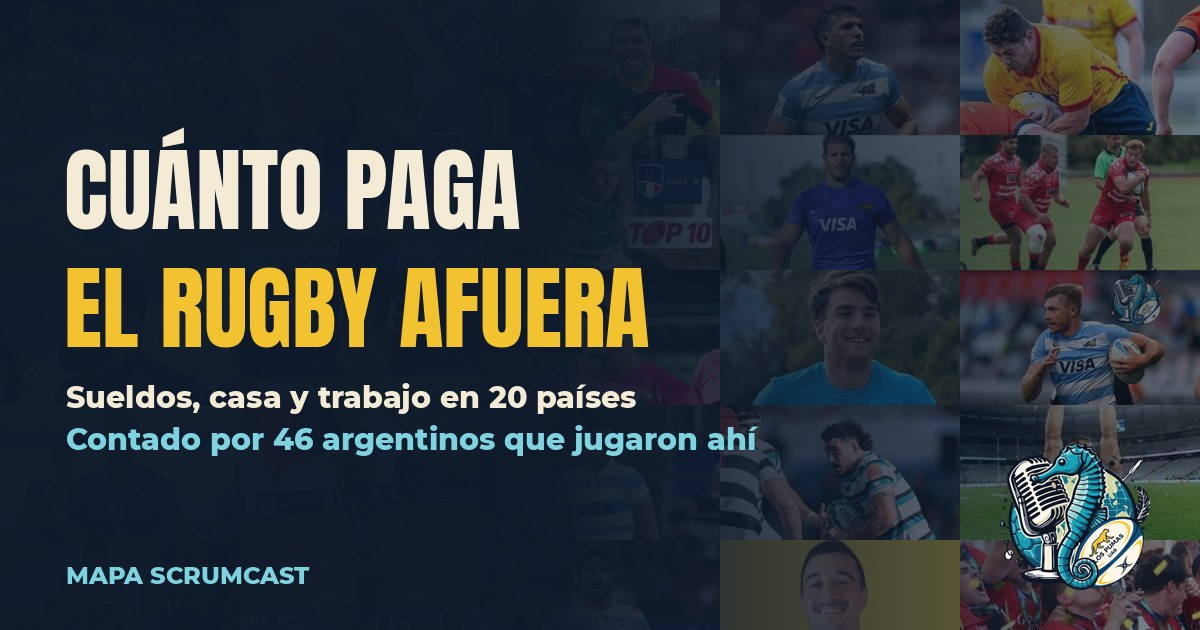
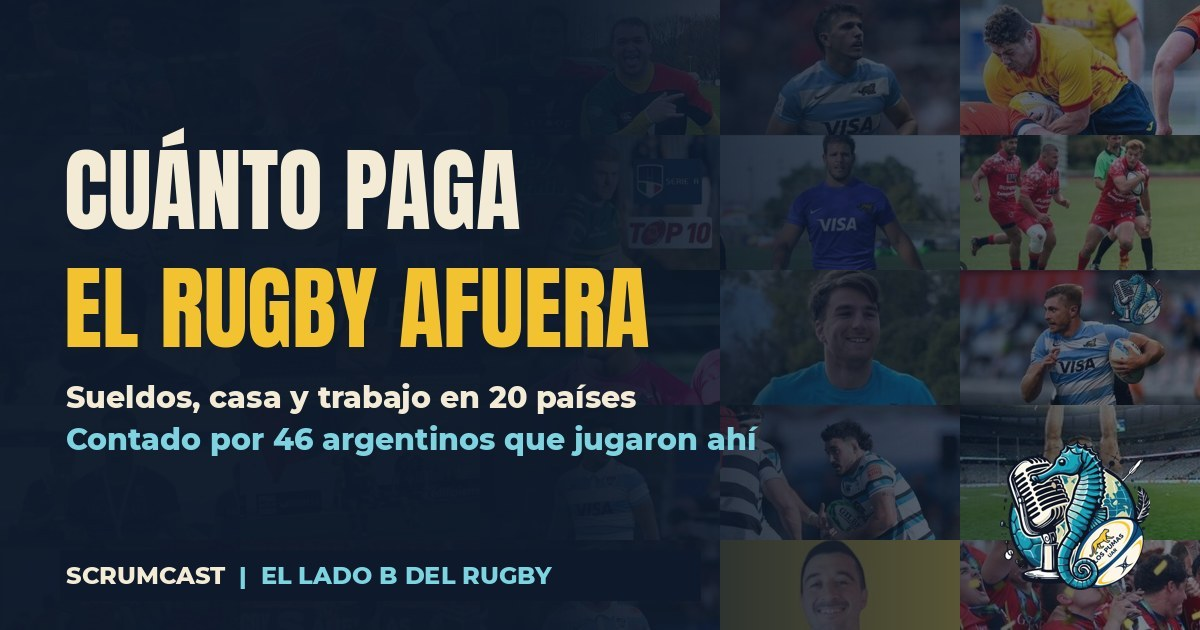
Nombre: ScrumCast · El lado B del rugby
Claude-Session: https://claude.ai/code/session_01KXXyBiTwK5G57GuSQtMAYV

Changed region(s): [[0.0308, 0.8746, 0.4625, 0.9349]]

diff --git a/index.html b/index.html
@@ -1,4 +1,4 @@
-<!doctype html><html lang="es"><head><meta charset="utf-8"><meta name="viewport" content="width=device-width,initial-scale=1,viewport-fit=cover"><title>Cuánto paga el rugby afuera: sueldos por liga | ScrumCast</title><meta name="description" content="Sueldos del rugby semiprofesional en 20 países: cuánto paga cada liga por mes y si te dan casa y trabajo. Contado por 46 argentinos que jugaron ahí."><link rel="canonical" href="https://mapa-scrumcast.vercel.app/"><meta name="theme-color" content="#0E1A2B"><meta property="og:type" content="website"><meta property="og:locale" content="es_AR"><meta property="og:site_name" content="ScrumCast"><meta property="og:url" content="https://mapa-scrumcast.vercel.app/"><meta property="og:title" content="Cuánto paga el rugby afuera"><meta property="og:description" content="Sueldos, casa y trabajo en 20 países, contado por 46 argentinos que jugaron ahí. Lo que ningún club te cuenta antes de firmar."><meta property="og:image" content="https://mapa-scrumcast.vercel.app/img/og.jpg"><meta property="og:image:width" content="1200"><meta property="og:image:height" content="630"><meta property="og:image:alt" content="Cuánto paga el rugby afuera: sueldos, casa y trabajo en 20 países"><meta name="twitter:card" content="summary_large_image"><meta name="twitter:image" content="https://mapa-scrumcast.vercel.app/img/og.jpg"><link rel="icon" href="img/logo.png"><link rel="apple-touch-icon" href="img/logo_grande.png"><script type="application/ld+json">[{"@context": "https://schema.org", "@type": "WebSite", "name": "Mapa ScrumCast", "url": "https://mapa-scrumcast.vercel.app/", "inLanguage": "es-AR", "description": "Cuánto paga cada liga de rugby afuera, si te dan casa y trabajo, contado por 46 argentinos que jugaron ahí.", "publisher": {"@type": "Organization", "name": "ScrumCast", "url": "https://mapa-scrumcast.vercel.app/", "logo": "https://mapa-scrumcast.vercel.app/img/logo_grande.png", "sameAs": ["https://www.instagram.com/scrumcast_", "https://www.youtube.com/@ScrumCastTuPodcastDeRugby", "https://open.spotify.com/show/2RqDUNEPf3DBLBzF7ElSzZ"], "founder": {"@type": "Person", "name": "Bruno Dell Aguila"}}}, {"@context": "https://schema.org", "@type": "FAQPage", "mainEntity": [{"@type": "Question", "name": "¿Cuánto se cobra jugando al rugby en Top 14 (Francia)?", "acceptedAnswer": {"@type": "Answer", "text": "5.000 a 50.000+ € por mes, según el club y el jugador. Casa: sin dato. Depende del contrato. El promedio público ronda los 21.000 € (Midi Olympique), con las estrellas adentro: la mayoría cobra bastante menos. Hay chicos del Top 14 que ganan menos que algunos de segunda. Según las charlas de ScrumCast con jugadores argentinos."}}, {"@type": "Question", "name": "¿Cuánto se cobra jugando al rugby en Premiership (Reino Unido)?", "acceptedAnswer": {"@type": "Answer", "text": "4.000 a 70.000 £ por mes (≈ 4.700 a 82.000 €). Casa: sin dato. Depende del contrato. En un mismo equipo uno puede ganar 5 mil y otro 50 mil. Pasado a euros es aproximado. Según las charlas de ScrumCast con jugadores argentinos."}}, {"@type": "Question", "name": "¿Cuánto se cobra jugando al rugby en MLR (profesional) (Estados Unidos)?", "acceptedAnswer": {"@type": "Answer", "text": "2.100 a 8.300 US$ por mes, durante los 6 meses de temporada (12.500 a 50.000 US$ en total). Casa: sí. Housing y vuelos del club, durante la temporada. El mínimo estándar ronda los 12.500 US$ por la temporada; hay quienes ganan 15 o 20 mil, y el máximo de la liga estaría en 40 o 50 mil. Los chicos de academia cobran por hora. Son 6 meses: cuando termina, el club deja de pagar el departamento y la mayoría vuelve a su país. Pasado a euros, aproximado. Según las charlas de ScrumCast con jugadores argentinos."}}, {"@type": "Question", "name": "¿Cuánto se cobra jugando al rugby en Pro D2 (Francia)?", "acceptedAnswer": {"@type": "Answer", "text": "1.300 a 20.000 € por mes, del mínimo a los mejores contratos. Casa: sin dato. Depende del contrato. El mínimo ronda los 1.300–1.500 € y un extranjero no formado en Francia arranca en 2.000 y pico. El promedio público es de unos 4.000 € (Midi Olympique) y los mejores contratos llegan hasta unos 20.000 € por mes. Según las charlas de ScrumCast con jugadores argentinos."}}, {"@type": "Question", "name": "¿Cuánto se cobra jugando al rugby en Fédérale 1 (Francia)?", "acceptedAnswer": {"@type": "Answer", "text": "2.000–4.000 € por mes, con casa y pasaje. Casa: a veces. Departamento y auto en los mejores contratos. Los peores contratos: 700 € sin casa. Según las charlas de ScrumCast con jugadores argentinos."}}, {"@type": "Question", "name": "¿Cuánto se cobra jugando al rugby en Espoirs (centro de formación) (Francia)?", "acceptedAnswer": {"@type": "Answer", "text": "1.000–2.000 € por mes, con todo pago. Casa: sí. Comida, residencia y facultad pagas. El primer año no tenía sueldo: el club le cubría todo. Según las charlas de ScrumCast con jugadores argentinos."}}, {"@type": "Question", "name": "¿Cuánto se cobra jugando al rugby en SuperLiga (Rumania)?", "acceptedAnswer": {"@type": "Answer", "text": "1.000–4.500 € por mes, del club. Casa: sí. Hotel del club, con comida. Según las charlas de ScrumCast con jugadores argentinos."}}, {"@type": "Question", "name": "¿Cuánto se cobra jugando al rugby en Serie A Elite (ex Top 10) (Italia)?", "acceptedAnswer": {"@type": "Answer", "text": "Vivís del rugby sueldo fijo más casa, auto y vuelos; en las charlas no hay una cifra. Casa: sí. Casa, auto y vuelos. Es la primera división (no las franquicias del URC). Vaccaro y Gonzalo García arrancaron ahí con sueldo, departamento y auto: el único gasto era la comida. Un wing cobra menos que un apertura o un forward. Según las charlas de ScrumCast con jugadores argentinos."}}, {"@type": "Question", "name": "¿Cuánto se cobra jugando al rugby en Serie A (A1 y A2) (Italia)?", "acceptedAnswer": {"@type": "Answer", "text": "800 a 1.100 € por mes, según el puesto. Casa: sí. Casa del club. Es la segunda división, partida en A1 y A2 (tres grupos por zonas). Con eso se vive bien y hasta se ahorra. En pandemia, Martín Altamirano cobraba 700–800 € en Serie A. Según las charlas de ScrumCast con jugadores argentinos."}}, {"@type": "Question", "name": "¿Cuánto se cobra jugando al rugby en Serie B (Italia)?", "acceptedAnswer": {"@type": "Answer", "text": "1.200 a 1.500 € por mes, en las mejores ofertas a extranjeros. Casa: sí. Casa, auto y pasajes en los buenos contratos. Ojo: son ofertas puntuales para traer a un extranjero, no lo que cobra la mayoría. Altamirano tuvo 1.200 € más casa, auto y pasajes (\"para ser un Serie B tenía un buen contrato\"). A Elias Haase un club de la isla le ofreció 1.300 € y estiraba hasta 1.500. Según las charlas de ScrumCast con jugadores argentinos."}}, {"@type": "Question", "name": "¿Cuánto se cobra jugando al rugby en División de Honor (España)?", "acceptedAnswer": {"@type": "Answer", "text": "800 a 2.000 € por mes, del club. Casa: a veces. Depende del club. Lo común es 800–1.000 €. Muy pocos llegan a 2.000 €, pero los hay: son los que más cobran en División de Honor. Fijate siempre si incluye casa. Según las charlas de ScrumCast con jugadores argentinos."}}, {"@type": "Question", "name": "¿Cuánto se cobra jugando al rugby en División de Honor B y tercera división (España)?", "acceptedAnswer": {"@type": "Answer", "text": "500 a 1.200 € por mes, con la comida. Con un trabajo: 800–1.400 € (lo que suma un trabajo). Casa: a veces. Algunos clubes dan casa y comida. En segunda y tercera división te dan sueldo y comida: de 500 a 1.000 €, y hasta 1.200 en segunda. Con un trabajo se suman 800 a 1.400 €. Según las charlas de ScrumCast con jugadores argentinos."}}, {"@type": "Question", "name": "¿Cuánto se cobra jugando al rugby en Liga polaca (Polonia)?", "acceptedAnswer": {"@type": "Answer", "text": "800–1.000 € por mes, en un país barato. Casa: sí. Habitación en el club. Según las charlas de ScrumCast con jugadores argentinos."}}, {"@type": "Question", "name": "¿Cuánto se cobra jugando al rugby en Liga alemana (Alemania)?", "acceptedAnswer": {"@type": "Answer", "text": "500–1.700 € por mes, del club. Con un trabajo: ~1.600 € (un trabajo normal). Casa: sí. Sí, lo normal. El club más fuerte llegó a pagar 2.000 € más casa. Los contratos de jugador y entrenador rondan hoy los 1.600 € más la casa. Según las charlas de ScrumCast con jugadores argentinos."}}, {"@type": "Question", "name": "¿Cuánto se cobra jugando al rugby en Semiprofesional (Irlanda)?", "acceptedAnswer": {"@type": "Answer", "text": "700–800 € por mes, del club. Con un trabajo: Sin cifra (el club te da un trabajo). Casa: sí. Casa y pasajes del club. Según las charlas de ScrumCast con jugadores argentinos."}}, {"@type": "Question", "name": "¿Cuánto se cobra jugando al rugby en Primera división (República Checa)?", "acceptedAnswer": {"@type": "Answer", "text": "Bajo como la 2ª división española. Con un trabajo: Extra (trabajo que consigue el club). Casa: sí. Sí, con comida. Según las charlas de ScrumCast con jugadores argentinos."}}, {"@type": "Question", "name": "¿Cuánto se cobra jugando al rugby en Championship (Bélgica)?", "acceptedAnswer": {"@type": "Answer", "text": "Bajo lo del club es un extra. Con un trabajo: 1.500–2.000 € (trabajando 8 horas). Casa: sí. Sí, gratis. Según las charlas de ScrumCast con jugadores argentinos."}}, {"@type": "Question", "name": "¿Cuánto se cobra jugando al rugby en Segunda liga (Países Bajos)?", "acceptedAnswer": {"@type": "Answer", "text": "3 meses solo mientras te buscan trabajo. Con un trabajo: 1.400–1.500 € (media jornada, dos días por semana). Casa: a veces. Alquiler barato. Según las charlas de ScrumCast con jugadores argentinos."}}, {"@type": "Question", "name": "¿Cuánto se cobra jugando al rugby en Liga sueca (de verano) (Suecia)?", "acceptedAnswer": {"@type": "Answer", "text": "Casa y comida pasajes, casa y una comida por día; sin sueldo. Con un trabajo: ~2.000 € (trabajando de lo que consigas (no hay salario mínimo)). Casa: sí. Casa y una comida por día. Es una liga de verano: se entrena desde marzo y se juega hasta fines del verano europeo, cuando en el resto de Europa no hay rugby. Sirve para seguir jugando en vez de quedarte solo trabajando en el verano. Es chica: este año la primera división terminó con tres equipos. Según las charlas de ScrumCast con jugadores argentinos."}}, {"@type": "Question", "name": "¿Cuánto se cobra jugando al rugby en Primera división (Croacia)?", "acceptedAnswer": {"@type": "Answer", "text": "Sin sueldo semiprofesional: alojamiento y un trabajo en el club. Con un trabajo: Trabajo en el club (entrenando a los chicos del club). Casa: sí. Alojamiento del club. Rugby emergente y a pulmón: cinco clubes en primera, ninguno con intermedia. Los jugadores también dan una mano en el club fuera de la cancha. Según las charlas de ScrumCast con jugadores argentinos."}}, {"@type": "Question", "name": "¿Cuánto se cobra jugando al rugby en Universitario (Estados Unidos)?", "acceptedAnswer": {"@type": "Answer", "text": "Sin sueldo beca parcial sobre las clases. Casa: a veces. Universidad o depto. compartido. Según las charlas de ScrumCast con jugadores argentinos."}}]}]</script></head><body>
+<!doctype html><html lang="es"><head><meta charset="utf-8"><meta name="viewport" content="width=device-width,initial-scale=1,viewport-fit=cover"><title>ScrumCast, el lado B del rugby: cuánto paga cada liga afuera</title><meta name="description" content="Sueldos del rugby semiprofesional en 20 países: cuánto paga cada liga por mes y si te dan casa y trabajo. Contado por 46 argentinos que jugaron ahí."><link rel="canonical" href="https://mapa-scrumcast.vercel.app/"><meta name="theme-color" content="#0E1A2B"><meta property="og:type" content="website"><meta property="og:locale" content="es_AR"><meta property="og:site_name" content="ScrumCast"><meta property="og:url" content="https://mapa-scrumcast.vercel.app/"><meta property="og:title" content="ScrumCast · El lado B del rugby"><meta property="og:description" content="Sueldos, casa y trabajo en 20 países, contado por 46 argentinos que jugaron ahí. Lo que ningún club te cuenta antes de firmar."><meta property="og:image" content="https://mapa-scrumcast.vercel.app/img/og.jpg"><meta property="og:image:width" content="1200"><meta property="og:image:height" content="630"><meta property="og:image:alt" content="Cuánto paga el rugby afuera: sueldos, casa y trabajo en 20 países"><meta name="twitter:card" content="summary_large_image"><meta name="twitter:image" content="https://mapa-scrumcast.vercel.app/img/og.jpg"><link rel="icon" href="img/logo.png"><link rel="apple-touch-icon" href="img/logo_grande.png"><script type="application/ld+json">[{"@context": "https://schema.org", "@type": "WebSite", "name": "ScrumCast · El lado B del rugby", "alternateName": "Mapa ScrumCast", "url": "https://mapa-scrumcast.vercel.app/", "inLanguage": "es-AR", "description": "Cuánto paga cada liga de rugby afuera, si te dan casa y trabajo, contado por 46 argentinos que jugaron ahí.", "publisher": {"@type": "Organization", "name": "ScrumCast", "url": "https://mapa-scrumcast.vercel.app/", "logo": "https://mapa-scrumcast.vercel.app/img/logo_grande.png", "sameAs": ["https://www.instagram.com/scrumcast_", "https://www.youtube.com/@ScrumCastTuPodcastDeRugby", "https://open.spotify.com/show/2RqDUNEPf3DBLBzF7ElSzZ"], "founder": {"@type": "Person", "name": "Bruno Dell Aguila"}}}, {"@context": "https://schema.org", "@type": "FAQPage", "mainEntity": [{"@type": "Question", "name": "¿Cuánto se cobra jugando al rugby en Top 14 (Francia)?", "acceptedAnswer": {"@type": "Answer", "text": "5.000 a 50.000+ € por mes, según el club y el jugador. Casa: sin dato. Depende del contrato. El promedio público ronda los 21.000 € (Midi Olympique), con las estrellas adentro: la mayoría cobra bastante menos. Hay chicos del Top 14 que ganan menos que algunos de segunda. Según las charlas de ScrumCast con jugadores argentinos."}}, {"@type": "Question", "name": "¿Cuánto se cobra jugando al rugby en Premiership (Reino Unido)?", "acceptedAnswer": {"@type": "Answer", "text": "4.000 a 70.000 £ por mes (≈ 4.700 a 82.000 €). Casa: sin dato. Depende del contrato. En un mismo equipo uno puede ganar 5 mil y otro 50 mil. Pasado a euros es aproximado. Según las charlas de ScrumCast con jugadores argentinos."}}, {"@type": "Question", "name": "¿Cuánto se cobra jugando al rugby en MLR (profesional) (Estados Unidos)?", "acceptedAnswer": {"@type": "Answer", "text": "2.100 a 8.300 US$ por mes, durante los 6 meses de temporada (12.500 a 50.000 US$ en total). Casa: sí. Housing y vuelos del club, durante la temporada. El mínimo estándar ronda los 12.500 US$ por la temporada; hay quienes ganan 15 o 20 mil, y el máximo de la liga estaría en 40 o 50 mil. Los chicos de academia cobran por hora. Son 6 meses: cuando termina, el club deja de pagar el departamento y la mayoría vuelve a su país. Pasado a euros, aproximado. Según las charlas de ScrumCast con jugadores argentinos."}}, {"@type": "Question", "name": "¿Cuánto se cobra jugando al rugby en Pro D2 (Francia)?", "acceptedAnswer": {"@type": "Answer", "text": "1.300 a 20.000 € por mes, del mínimo a los mejores contratos. Casa: sin dato. Depende del contrato. El mínimo ronda los 1.300–1.500 € y un extranjero no formado en Francia arranca en 2.000 y pico. El promedio público es de unos 4.000 € (Midi Olympique) y los mejores contratos llegan hasta unos 20.000 € por mes. Según las charlas de ScrumCast con jugadores argentinos."}}, {"@type": "Question", "name": "¿Cuánto se cobra jugando al rugby en Fédérale 1 (Francia)?", "acceptedAnswer": {"@type": "Answer", "text": "2.000–4.000 € por mes, con casa y pasaje. Casa: a veces. Departamento y auto en los mejores contratos. Los peores contratos: 700 € sin casa. Según las charlas de ScrumCast con jugadores argentinos."}}, {"@type": "Question", "name": "¿Cuánto se cobra jugando al rugby en Espoirs (centro de formación) (Francia)?", "acceptedAnswer": {"@type": "Answer", "text": "1.000–2.000 € por mes, con todo pago. Casa: sí. Comida, residencia y facultad pagas. El primer año no tenía sueldo: el club le cubría todo. Según las charlas de ScrumCast con jugadores argentinos."}}, {"@type": "Question", "name": "¿Cuánto se cobra jugando al rugby en SuperLiga (Rumania)?", "acceptedAnswer": {"@type": "Answer", "text": "1.000–4.500 € por mes, del club. Casa: sí. Hotel del club, con comida. Según las charlas de ScrumCast con jugadores argentinos."}}, {"@type": "Question", "name": "¿Cuánto se cobra jugando al rugby en Serie A Elite (ex Top 10) (Italia)?", "acceptedAnswer": {"@type": "Answer", "text": "Vivís del rugby sueldo fijo más casa, auto y vuelos; en las charlas no hay una cifra. Casa: sí. Casa, auto y vuelos. Es la primera división (no las franquicias del URC). Vaccaro y Gonzalo García arrancaron ahí con sueldo, departamento y auto: el único gasto era la comida. Un wing cobra menos que un apertura o un forward. Según las charlas de ScrumCast con jugadores argentinos."}}, {"@type": "Question", "name": "¿Cuánto se cobra jugando al rugby en Serie A (A1 y A2) (Italia)?", "acceptedAnswer": {"@type": "Answer", "text": "800 a 1.100 € por mes, según el puesto. Casa: sí. Casa del club. Es la segunda división, partida en A1 y A2 (tres grupos por zonas). Con eso se vive bien y hasta se ahorra. En pandemia, Martín Altamirano cobraba 700–800 € en Serie A. Según las charlas de ScrumCast con jugadores argentinos."}}, {"@type": "Question", "name": "¿Cuánto se cobra jugando al rugby en Serie B (Italia)?", "acceptedAnswer": {"@type": "Answer", "text": "1.200 a 1.500 € por mes, en las mejores ofertas a extranjeros. Casa: sí. Casa, auto y pasajes en los buenos contratos. Ojo: son ofertas puntuales para traer a un extranjero, no lo que cobra la mayoría. Altamirano tuvo 1.200 € más casa, auto y pasajes (\"para ser un Serie B tenía un buen contrato\"). A Elias Haase un club de la isla le ofreció 1.300 € y estiraba hasta 1.500. Según las charlas de ScrumCast con jugadores argentinos."}}, {"@type": "Question", "name": "¿Cuánto se cobra jugando al rugby en División de Honor (España)?", "acceptedAnswer": {"@type": "Answer", "text": "800 a 2.000 € por mes, del club. Casa: a veces. Depende del club. Lo común es 800–1.000 €. Muy pocos llegan a 2.000 €, pero los hay: son los que más cobran en División de Honor. Fijate siempre si incluye casa. Según las charlas de ScrumCast con jugadores argentinos."}}, {"@type": "Question", "name": "¿Cuánto se cobra jugando al rugby en División de Honor B y tercera división (España)?", "acceptedAnswer": {"@type": "Answer", "text": "500 a 1.200 € por mes, con la comida. Con un trabajo: 800–1.400 € (lo que suma un trabajo). Casa: a veces. Algunos clubes dan casa y comida. En segunda y tercera división te dan sueldo y comida: de 500 a 1.000 €, y hasta 1.200 en segunda. Con un trabajo se suman 800 a 1.400 €. Según las charlas de ScrumCast con jugadores argentinos."}}, {"@type": "Question", "name": "¿Cuánto se cobra jugando al rugby en Liga polaca (Polonia)?", "acceptedAnswer": {"@type": "Answer", "text": "800–1.000 € por mes, en un país barato. Casa: sí. Habitación en el club. Según las charlas de ScrumCast con jugadores argentinos."}}, {"@type": "Question", "name": "¿Cuánto se cobra jugando al rugby en Liga alemana (Alemania)?", "acceptedAnswer": {"@type": "Answer", "text": "500–1.700 € por mes, del club. Con un trabajo: ~1.600 € (un trabajo normal). Casa: sí. Sí, lo normal. El club más fuerte llegó a pagar 2.000 € más casa. Los contratos de jugador y entrenador rondan hoy los 1.600 € más la casa. Según las charlas de ScrumCast con jugadores argentinos."}}, {"@type": "Question", "name": "¿Cuánto se cobra jugando al rugby en Semiprofesional (Irlanda)?", "acceptedAnswer": {"@type": "Answer", "text": "700–800 € por mes, del club. Con un trabajo: Sin cifra (el club te da un trabajo). Casa: sí. Casa y pasajes del club. Según las charlas de ScrumCast con jugadores argentinos."}}, {"@type": "Question", "name": "¿Cuánto se cobra jugando al rugby en Primera división (República Checa)?", "acceptedAnswer": {"@type": "Answer", "text": "Bajo como la 2ª división española. Con un trabajo: Extra (trabajo que consigue el club). Casa: sí. Sí, con comida. Según las charlas de ScrumCast con jugadores argentinos."}}, {"@type": "Question", "name": "¿Cuánto se cobra jugando al rugby en Championship (Bélgica)?", "acceptedAnswer": {"@type": "Answer", "text": "Bajo lo del club es un extra. Con un trabajo: 1.500–2.000 € (trabajando 8 horas). Casa: sí. Sí, gratis. Según las charlas de ScrumCast con jugadores argentinos."}}, {"@type": "Question", "name": "¿Cuánto se cobra jugando al rugby en Segunda liga (Países Bajos)?", "acceptedAnswer": {"@type": "Answer", "text": "3 meses solo mientras te buscan trabajo. Con un trabajo: 1.400–1.500 € (media jornada, dos días por semana). Casa: a veces. Alquiler barato. Según las charlas de ScrumCast con jugadores argentinos."}}, {"@type": "Question", "name": "¿Cuánto se cobra jugando al rugby en Liga sueca (de verano) (Suecia)?", "acceptedAnswer": {"@type": "Answer", "text": "Casa y comida pasajes, casa y una comida por día; sin sueldo. Con un trabajo: ~2.000 € (trabajando de lo que consigas (no hay salario mínimo)). Casa: sí. Casa y una comida por día. Es una liga de verano: se entrena desde marzo y se juega hasta fines del verano europeo, cuando en el resto de Europa no hay rugby. Sirve para seguir jugando en vez de quedarte solo trabajando en el verano. Es chica: este año la primera división terminó con tres equipos. Según las charlas de ScrumCast con jugadores argentinos."}}, {"@type": "Question", "name": "¿Cuánto se cobra jugando al rugby en Primera división (Croacia)?", "acceptedAnswer": {"@type": "Answer", "text": "Sin sueldo semiprofesional: alojamiento y un trabajo en el club. Con un trabajo: Trabajo en el club (entrenando a los chicos del club). Casa: sí. Alojamiento del club. Rugby emergente y a pulmón: cinco clubes en primera, ninguno con intermedia. Los jugadores también dan una mano en el club fuera de la cancha. Según las charlas de ScrumCast con jugadores argentinos."}}, {"@type": "Question", "name": "¿Cuánto se cobra jugando al rugby en Universitario (Estados Unidos)?", "acceptedAnswer": {"@type": "Answer", "text": "Sin sueldo beca parcial sobre las clases. Casa: a veces. Universidad o depto. compartido. Según las charlas de ScrumCast con jugadores argentinos."}}]}]</script></head><body>
 <meta name="claude:viewport-fit-sides" content="cover">
 <link rel="stylesheet" href="https://fonts.googleapis.com/css2?family=Anton&family=Montserrat:wght@400;600;700;800&family=Noto+Color+Emoji&display=swap">
 <style>
